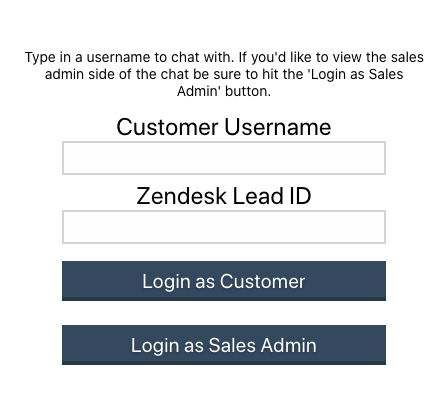
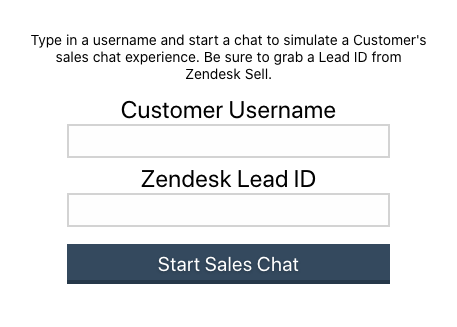
Final draft

Changed region(s): [[0.1166, 0.2752, 0.8744, 0.9174], [0.0583, 0.0917, 0.9619, 0.2446], [0.1166, 0.5199, 0.1457, 0.581]]

diff --git a/backend/server.js b/backend/server.js
@@ -30,7 +30,7 @@ async function getPreviousTranscript(leadId) {
   return response.data.data.description || '';
 }
 
-app.put('/transcript', async (req, res) => {
+app.post('/messages', async (req, res) => {
   try {
     const leadId = req.body.leadId;
     let previousTranscript = await getPreviousTranscript(leadId);
@@ -55,7 +55,7 @@ app.put('/transcript', async (req, res) => {
 });
 
 app.post("/stream-chat-credentials", async (req, res) => {
-  const { username, isSalesAdmin } = req.body;
+  const { username } = req.body;
   try {
     let user = { id: username, name: username, role: 'user' };
 

diff --git a/frontend/src/SalesChat.js b/frontend/src/SalesChat.js
@@ -6,7 +6,7 @@ import "stream-chat-react/dist/css/index.css";
 
 function SalesChat({ username, leadId, chatClient, channel }) {
   async function handleMessage(_channelId, message) {
-    await axios.put("http://localhost:8080/transcript", { message, author: username, leadId: leadId });
+    await axios.post("http://localhost:8080/messages", { message, author: username, leadId: leadId });
     return channel.sendMessage(message);
   }
 

diff --git a/README.md b/README.md
@@ -21,15 +21,15 @@ To follow along with the post, you will need a free [Stream](https://getstream.i
 The code in this post is intended to run locally, and assumes a basic knowledge of [React and React Hooks](https://reactjs.org/docs/hooks-intro.html), [Express](https://expressjs.com/), [Node.js](https://nodejs.org/en/), and [axios](https://github.com/axios/axios). The minimum knowledge required to configure Zendesk and use the API is explained in the post (see the [Zendesk Sell API](https://developer.zendesk.com/rest_api/docs/sell-api/apis) documentation to learn more). Please note, however, that you will need to create at least one Lead manually in Zendesk and and use the Lead ID when logging in, as described below.
 
 The steps we will take to build the `backend` are:
-1. [Registering and Configuring Zendesk](#registering-and-configuring-zendesk)
-3. [Registering and Configuring Stream](#registering-and-configuring-stream)
-2. [Create a Stream Chat Session](#create-a-stream-chat-session)
+1. Registering and Configuring Zendesk
+1. Registering and Configuring Stream
+1. Create a Stream Chat Session
 
 The steps to build the `frontend` are:
-1. [Initiate the Frontend Chat Screens](#1---initiate-the-frontend-chat-screens)
-2. [Authenticate Admin and Customer to the Chat](#2---authenticate-admin-and-custoemr-to-the-chat)
-3. [Send messages to Zendesk](#3---send-messages-to-zendesk)
-4. [Miscellaneous Backend Endpoints](#4---miscellaneous-backend-endpoints)
+1. Initiate the Frontend Chat Screens
+1. Authenticate the Customer to the Chat
+1. Send messages to Zendesk
+1. Miscellaneous Backend Endpoints
 
 ### Registering and Configuring Zendesk
 
@@ -85,9 +85,9 @@ Stream will generate a `key` and `secret` for your app. Copy these and update th
 
 When the `.env` file has been created, you can start the backend by `npm start` command from the backend folder.
 
-## Step 1 - Logging In
+## Step 1 - Starting a Chat
 
-First let's build a React frontend that allows you to login as either a **Customer** or **Sales Admin**. Here's what our simplified logins screen looks like. 
+First let's build a React frontend that allows you to start a chat as a **Customer** or **Sales Admin**. Here's what our simplified logins screen looks like. 
 
 ![](images/login.png)
 
@@ -98,15 +98,19 @@ Let's start by modifying the `App.js` file that was generated by `create-react-a
 function App() {
   const [username, setUsername] = useState('');
   const [leadId, setLeadId] = useState('');
-  const [isSalesAdmin, setIsSalesAdmin] = useState(null);
+  const [channel, setChannel] = useState(null);
+  const [chatClient, setChatClient] = useState(null);
 
-  if (username && leadId && isSalesAdmin !== null) {
-    return <SalesChat username={username} leadId={leadId} isSalesAdmin={isSalesAdmin}/>;
+  const startChat = async () => {
+    // ...
+  }
+
+  if (channel && chatClient) {
+    return <SalesChat username={username} leadId={leadId} channel={channel} chatClient={chatClient}/>;
   } else {
     return <div className="login">
       <div className="login-description">
-        Type in a username to chat with. If you'd like to view the sales admin side of the chat be sure to hit the 'Login
-        as Sales Admin' button.
+        Type in a username and start a chat to simulate a Customer's sales chat experience. Be sure to grab a Lead ID from Zendesk Sell.
       </div>
       <label>Customer Username</label>
       <input
@@ -122,65 +126,163 @@ function App() {
         onChange={(e) => setLeadId(e.target.value)}
         required
       />
-      <button onClick={() => setIsSalesAdmin(false)}>Login as Customer</button>
-      <button onClick={() => setIsSalesAdmin(true)}>Login as Sales Admin</button>
+      <button onClick={startChat}>Start Sales Chat</button>
     </div>
   }
 }
 ```
 
-We first present the user with the form (displayed above). This form contains a `username`, a `leadId` (to identify the Zendesk Sell lead record), and two buttons. One button is for logging in as the **Customer**, the other is to simulate the **Sales Admin** side of the chat. We use `useState` to the values of each of these fields. 
+We first present the user with the form (displayed above). This form contains a `username`, a `leadId` (to identify the Zendesk Sell lead record), and a button to start the chat. We use `useState` to the values of each of these fields. 
 
-To keep this post focused, we won't generate leads dynamically. This means we'll need to get the lead id from Zendesk manually. To grab our lead id, go to your Zendesk dashboard and navigate to the "Leads" section. If you don't have a lead, click on "Add" and then "Add Lead". Fill in the necessary information then click "Save". Once you've done that you should see a lead id in the URL. It will be a 6-8 digit number such as `3180101`. If you want to see how to generate these leads programmatically when entering starting a Stream chat, see this [post](INSERT OTHER POST HERE).
+To keep this post focused, we won't generate leads dynamically. This means we'll need to get the lead id from Zendesk manually. To grab our lead id, go to your Zendesk dashboard and navigate to the "Leads" section. If you don't have a lead, click on "Add" and then "Add Lead". Fill in the necessary information then click "Save". Once you've done that you should see a lead id in the URL. It will be a 6-8 digit number such as `3180101`. If you want to see how to generate these leads programmatically when entering starting a Stream chat, see this [post](https://getstream.io/blog/how-to-capture-leads-from-live-chat-in-zendesk/).
 
-Once you've filled out your `username` and `leadId`, after you select logging in as a **Customer** or **Sales Admin**, the application will render the `SalesChat` component. 
-
-> Note: there are several methodologies for managing users with different authentication levels. While the method used here is convenient for learning, it's obviously not what you'd want in production as there's no real authentication or user management. Choose what's best for your needs on this step.
-
-## Step 2: Configuring and Displaying a Stream Chat Channel
-
-As you can see in Step 1, once we have the data we need we mount the `SalesChat` component. This component gets a Stream frontend token from the backend and mounts the appropriate Stream chat components. Let's take a look at the general outline of the component:
+Once you've filled out your `username` and `leadId`, after you can click "Start Sales Chat". Upon clicking this, we fire our `startChat` function:
 
 ```jsx
-function SalesChat({ username, leadId, isSalesAdmin }) {
-  const [channel, setChannel] = useState(null);
-  const [chatClient, setChatClient] = useState(null);
+  const startChat = async () => {
+    const response = await axios.post("http://localhost:8080/stream-chat-credentials", {
+      username, leadId
+    });
+    const token = response.data.token;
+    const channelId = response.data.channelId;
+    const chatClient = new StreamChat(response.data.apiKey);
 
-  useEffect(() => {
-    async function getToken() {
-      try {
-        const response = await axios.post("http://localhost:7000/stream-chat-credentials", {
-          username, leadId, isSalesAdmin
-        });
-        const token = response.data.token;
-        const channelId = response.data.channelId;
-        const chatClient = new StreamChat(response.data.apiKey);
+    await chatClient.setUser({ id: response.data.userId, name: response.data.userName }, token);
+    const channel = chatClient.channel("messaging", channelId);
 
-        await chatClient.setUser({ id: response.data.userId, name: response.data.userName }, token);
-        const channel = chatClient.channel("messaging", channelId);
+    setChatClient(chatClient);
+    setChannel(channel);
+  }
+``` 
 
-        setChatClient(chatClient);
-        setChannel(channel);
-      } catch (err) {
-        console.error(err);
-        return <div>{err}</div>;
-      }
-    }
+Here we post our `username` and `leadId` to our backend. We'll look at what our backend does in a second, but first let's see how our `frontend` handles the response. Our backend will return a few pieces of data required to configure our frontend client. Using the `apiKey` we set up our frontend `StreamChat` instance. We then configure the chat instance with the `userId`, `userName` and the [Stream frontend token](https://getstream.io/blog/integrating-with-stream-backend-frontend-options/). Once our client is configured, we can create a reference to our channel via the `channelId`. We then set the React component's `chatClient` and `channel` state. 
 
-    getToken();
-  }, []);
+Before we move on to rendering the chat channel, let's look at the backend `/stream-chat-credentials` handler: 
 
-  async function handleMessage(channelId, message) {
-    // ...
+```javascript
+// backend/server.js:15
+const streamClient = new StreamChat(
+  process.env.STREAM_API_KEY,
+  process.env.STREAM_API_SECRET
+);
+
+// ...
+
+// backend/server.js:57
+app.post("/stream-chat-credentials", async (req, res) => {
+  const { username } = req.body;
+  try {
+    let user = { id: username, name: username, role: 'user' };
+
+    await streamClient.upsertUsers([user]);
+    const channel = streamClient.channel('messaging', username, {
+      name: 'Sales Chat',
+      created_by_id: 'sales-admin'
+    });
+
+    await channel.create();
+    await channel.addMembers([username]);
+
+    const token = streamClient.createToken(user.id);
+
+    res.send({
+      userId: user.id,
+      userName: user.name,
+      channelId: channel.id,
+      token,
+      apiKey: process.env.STREAM_API_KEY
+    });
+  } catch (err) {
+    console.log(err);
+  }
+});
+```
+
+Here we take the `username` from the request. We use our `streamClient` to create or update the user. Then we create a chat channel that is private to that user (and any [admin user](https://getstream.io/chat/docs/channel_user_role/?language=js)). Once the chat channel is set up, we generate teh user's frontend token and respond to the user with the necessary data.
+
+## Step 2: Displaying a Stream Chat Channel
+
+Once you've started a chat you will see a screen that looks like this:
+
+![](images/chat.png)
+
+As you can see in Step 1, we have the data we need we mount the `SalesChat` component. This component takes the user information (`username` and `leadId`) and our Stream data (`chatClient` and `channel`). The main function of this component is to render the chat experience and hook into the message lifecycle to send each message to our `backend` to update the Lead in Zendesk Sell. Here's the entire component:
+
+```jsx
+// frontend/src/SalesChat.js:7
+function SalesChat({ username, leadId, chatClient, channel }) {
+  async function handleMessage(_channelId, message) {
+    await axios.post("http://localhost:8080/messages", { message, author: username, leadId: leadId });
+    return channel.sendMessage(message);
   }
 
-  return // ...
+  return (
+    <Chat client={chatClient} theme="commerce light">
+      <Channel channel={channel} doSendMessageRequest={handleMessage}>
+        <Window>
+          <h1>
+            Customer Support Chat: {channel.id}
+          </h1>
+          <MessageList/>
+          <MessageInput focus/>
+        </Window>
+      </Channel>
+    </Chat>
+  );
 }
 ```
 
-Here we take in the username, the lead id for that user, and a boolean `isSalesAdmin` to indicate which side of the chat we're on. On initialization, we    
-
+Using the `chatClient` and `channel` we render the chat experience with [Stream's Chat Messaging UI Kit](https://getstream.io/chat/ui-kit/). The component hooks into the message lifecycle by configuring the `Channel` component's `doSendMessageRequest` prop. This prop allows us to intercept the message before it goes to Stream's API. Inside of `handleMessage` we send the message, along with the `author` and `leadId` to our `backend`'s `/messages` endpoint. Once the message has been handled by our backend, we send the message to the `channel` by calling `sendMessage`.
 
 ## Step 3: Syncing the Chat Transcript on Every Message
 
-And that does it! You now understand how to integrate Stream Chat with Zendesk Sell to update Lead Descriptions (or any other Zendesk component as needed) during your sales chat experience.
+Now that we have our chat experience mounted and are sending every message to our backend, we can sync these messages to our Zendesk Lead. Here's our `/messages` endpoint: 
+
+```javascript
+// backend/server.js:33
+app.post('/messages', async (req, res) => {
+  try {
+    const leadId = req.body.leadId;
+    let previousTranscript = await getPreviousTranscript(leadId);
+    const payload = {
+      'description': `${previousTranscript}\n${req.body.author}: ${req.body.message.text}`
+    }
+    const headers = {
+      'Accept': 'application/json',
+      'Content-Type': 'application/json',
+      'Authorization': `Bearer ${process.env.ZENDESK_CRM_TOKEN}`
+    }
+    await axios.put(
+      'https://api.getbase.com/v2/leads/' + leadId,
+      { data: payload },
+      { headers: headers }
+    );
+    res.send({});
+  } catch (err) {
+    console.log(err);
+    res.status(500);
+  }
+});
+```
+
+This endpoint appends the new message to the `description` field, with the author to it. Every time we update the `description` field, it will overwrite the previous data. In order to append to what was there, we need to look up the previous transcript via `getPreviousTranscript`:
+
+```javascript
+// backend/server.js:20
+async function getPreviousTranscript(leadId) {
+  const headers = {
+    'Accept': 'application/json',
+    'Content-Type': 'application/json',
+    'Authorization': `Bearer ${process.env.ZENDESK_CRM_TOKEN}`
+  }
+  const response = await axios.get(
+    `https://api.getbase.com/v2/leads/${leadId}`,
+    { headers: headers }
+  );
+  return response.data.data.description || '';
+}
+```
+
+This is simply a `GET` against the lead to get the previous `description` field out. Once we have the previous description we issue a `PUT` to update the lead with the new `description` field containing our appended message. 
+
+That does it! You now understand how to integrate Stream Chat with Zendesk Sell to update Lead Descriptions (or any other Zendesk field as needed) during your sales chat experience.
